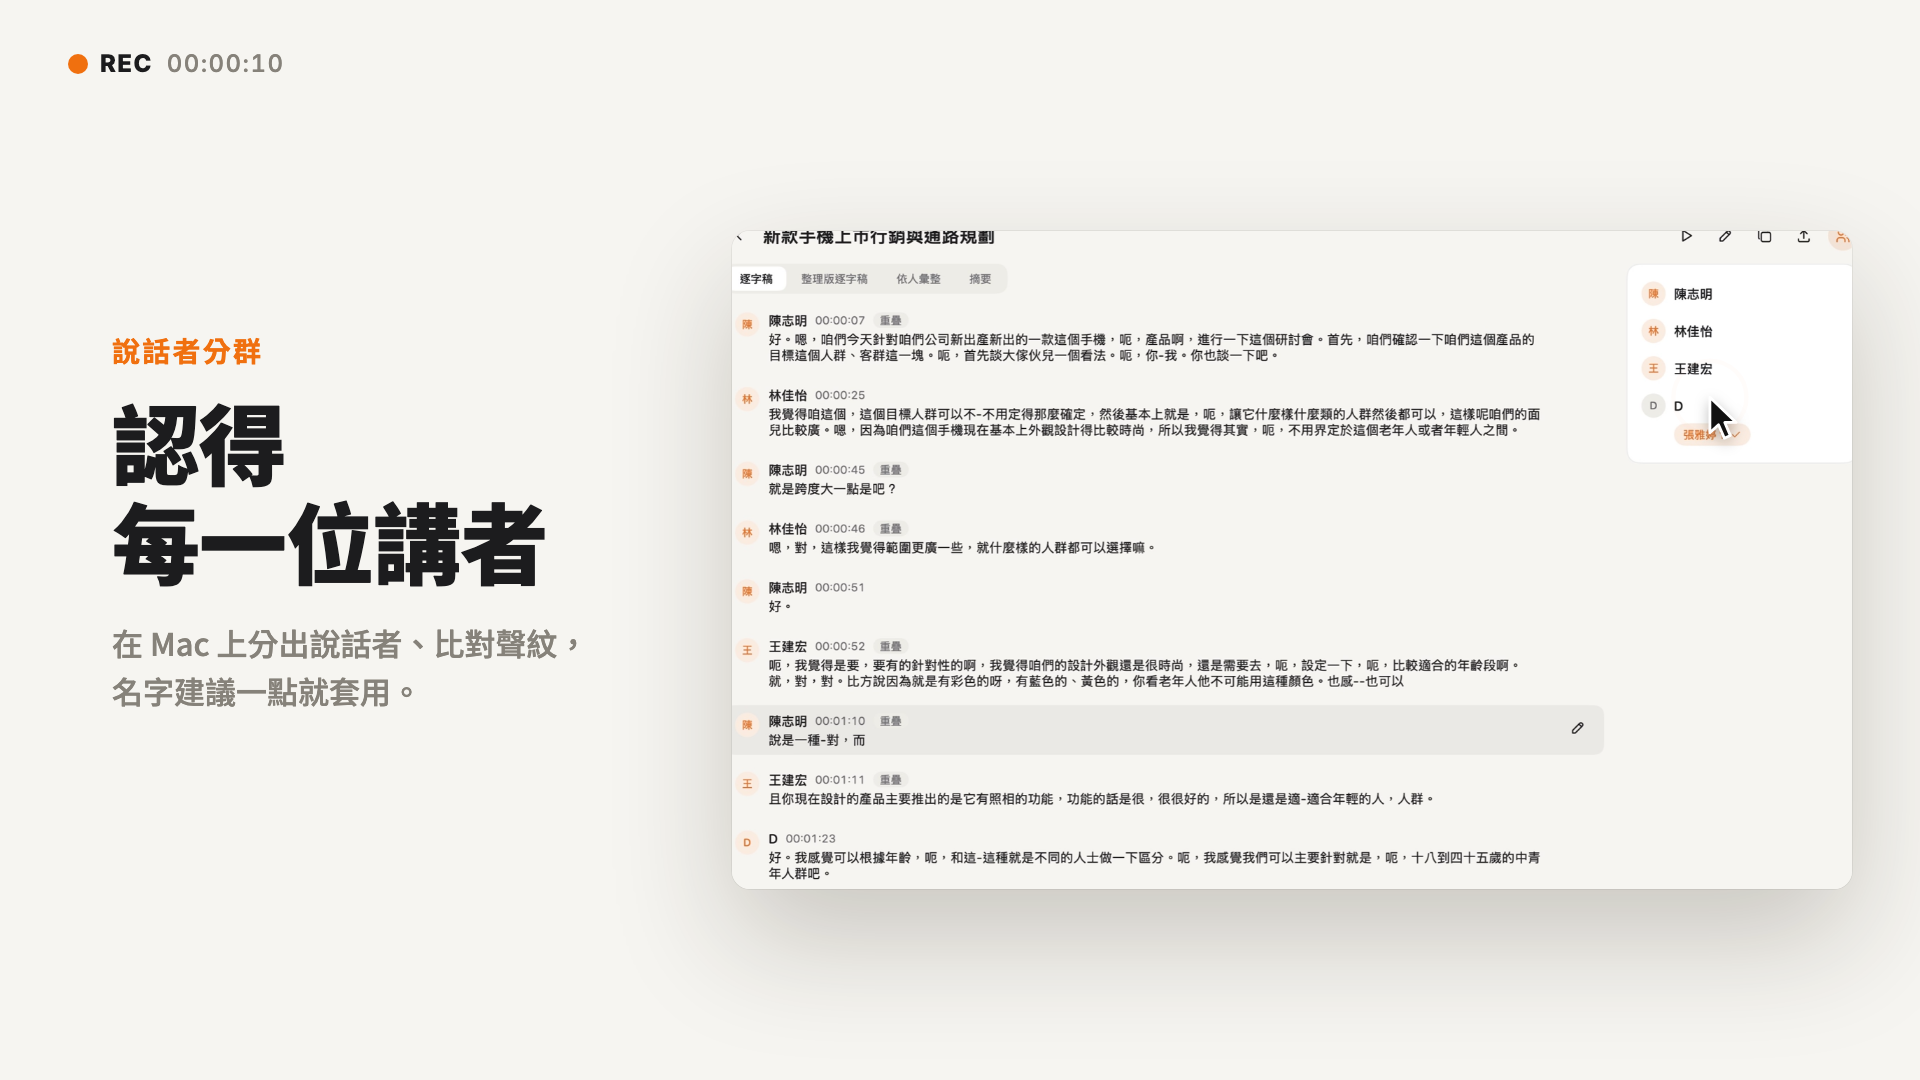
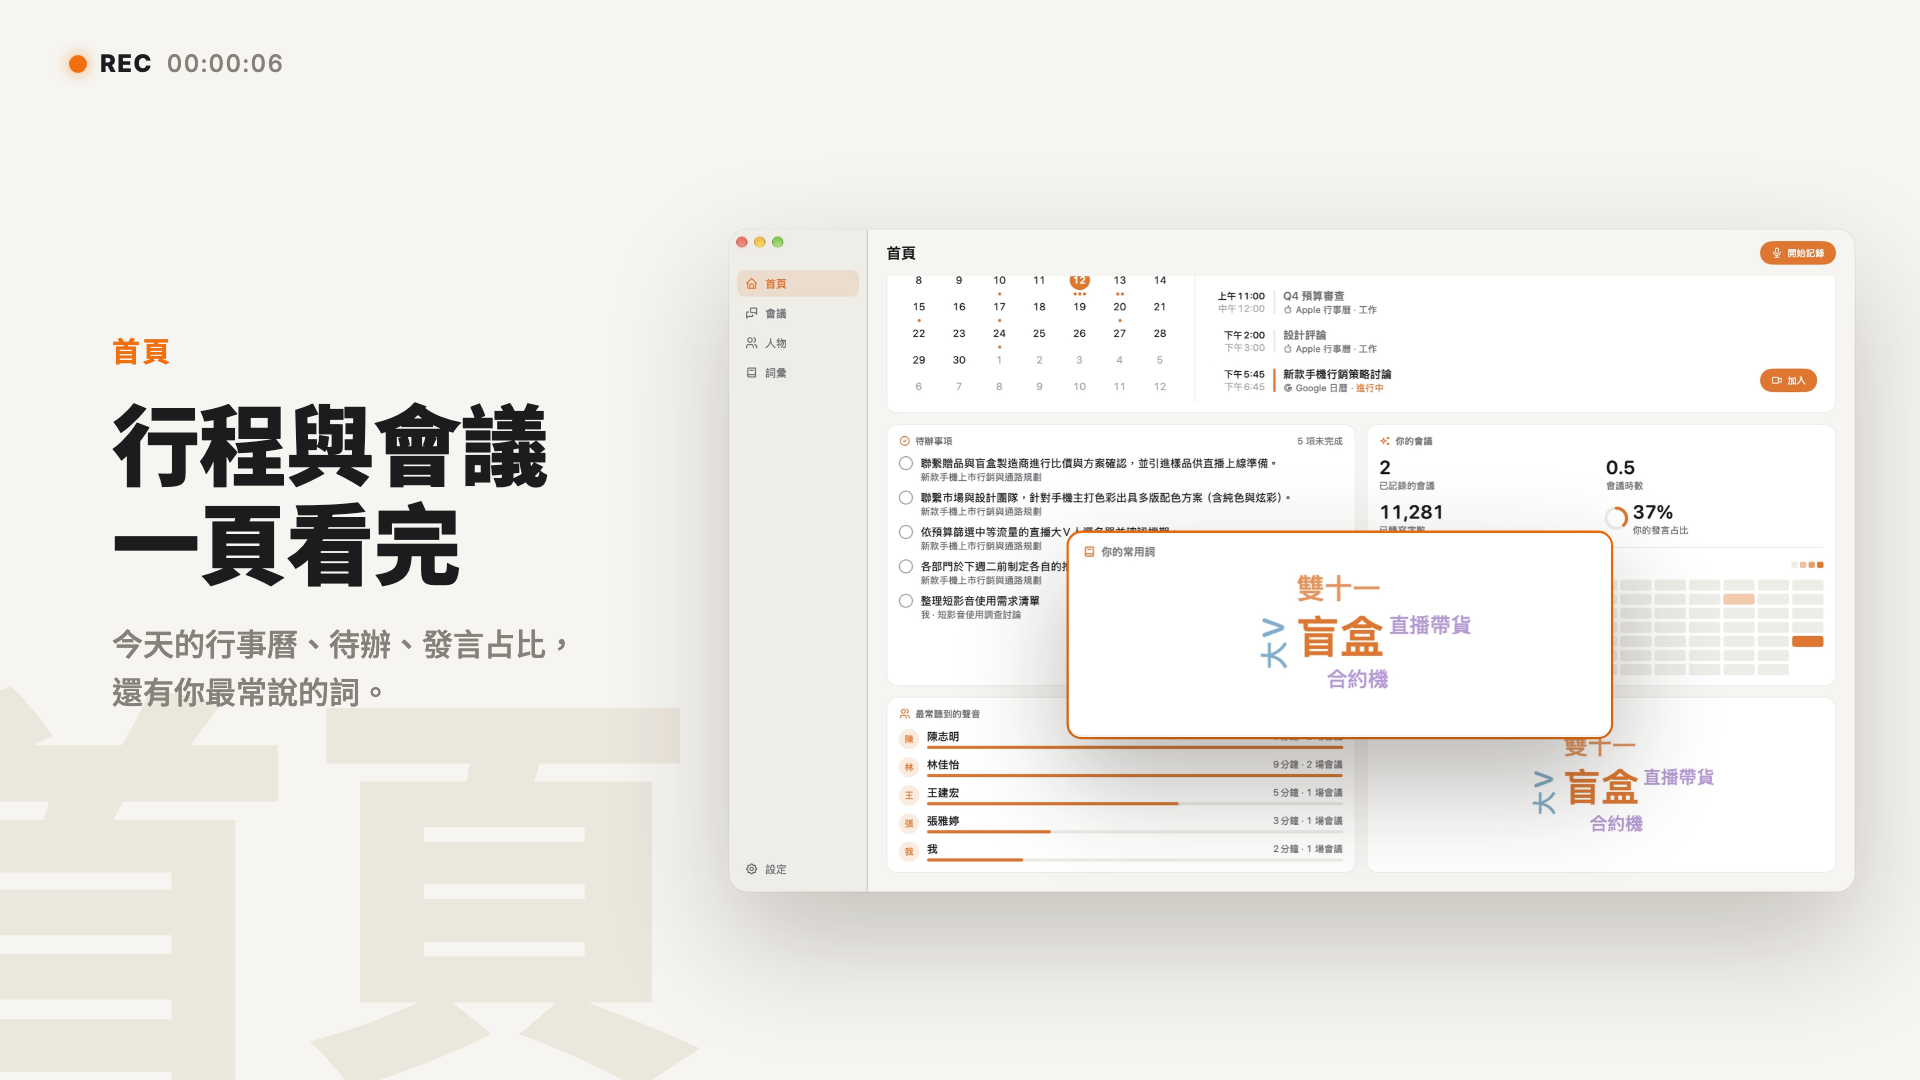
docs: refresh README stills and link the v2 promo videos

diff --git a/README.md b/README.md
@@ -35,6 +35,12 @@ mm2t 的所有視窗都不會出現在螢幕分享畫面裡，分享簡報時不
   <img src="docs/assets/feature-speakers.png" alt="標好說話者名字的逐字稿" width="880"/>
 </p>
 
+每個人的聲紋都存在「人物」頁，會分別記住他在會議室現場和線上通話時的聲音。
+
+<p align="center">
+  <img src="docs/assets/feature-voiceprints.png" alt="人物頁：每個人的聲紋與錄音情境" width="880"/>
+</p>
+
 ## 會議結束，紀錄就整理好了
 
 每場會議會產出四種內容：
@@ -56,7 +62,7 @@ mm2t 的所有視窗都不會出現在螢幕分享畫面裡，分享簡報時不
 
 錄音、聲紋與會議紀錄都只存在本機，mm2t 沒有自己的伺服器。語音轉文字與摘要使用你自己的 API 金鑰（ElevenLabs、Google Gemini），費用直接由你的帳號支付；也可以改用自架的轉錄伺服器，讓音訊完全不離開你的設備。詳見 [隱私權政策](PRIVACY.md)。
 
-## 30 秒看懂 mm2t
+## 一分鐘看懂 mm2t
 
 <p align="center">
   <a href="https://github.com/yuzen9622/mm2t/releases/download/v0.1.0/mm2t-promo-zh.mp4"><img src="docs/assets/poster.png" alt="播放 mm2t 介紹影片" width="880"/></a>

diff --git a/docs/development.md b/docs/development.md
@@ -25,7 +25,7 @@ open .build/xcode/Build/Products/Debug/mm2t.app
 
 macOS 依程式碼簽章記住權限。用 ad-hoc 簽章時，每次重新建置都可能需要重新授權。如果你有 Apple Development 憑證，改傳 `CODE_SIGN_IDENTITY="Apple Development" DEVELOPMENT_TEAM=<你的 Team ID>`，權限就能保留。
 
-自己建置的 App 也會用 Sparkle 檢查更新，但 Sparkle 只會安裝與目前 App 簽章相符的更新，所以 ad-hoc 簽章的建置會拒絕安裝正式版。要停用更新，把 `App/Config/Info.plist` 的 `SUPublicEDKey` 清空即可。
+自己建置的 App 也會用 Sparkle 檢查正式版的更新。開發時不想讓它檢查，把 `App/Config/Info.plist` 的 `SUPublicEDKey` 清空即可（不要 commit 這個改動）。
 
 說話者分群模型（約 210 MB）不隨 App 附帶。在 **設定** 按 **下載**，App 會從 Hugging Face 下載模型到 `~/Library/Application Support/mm2t/Models`。
 
